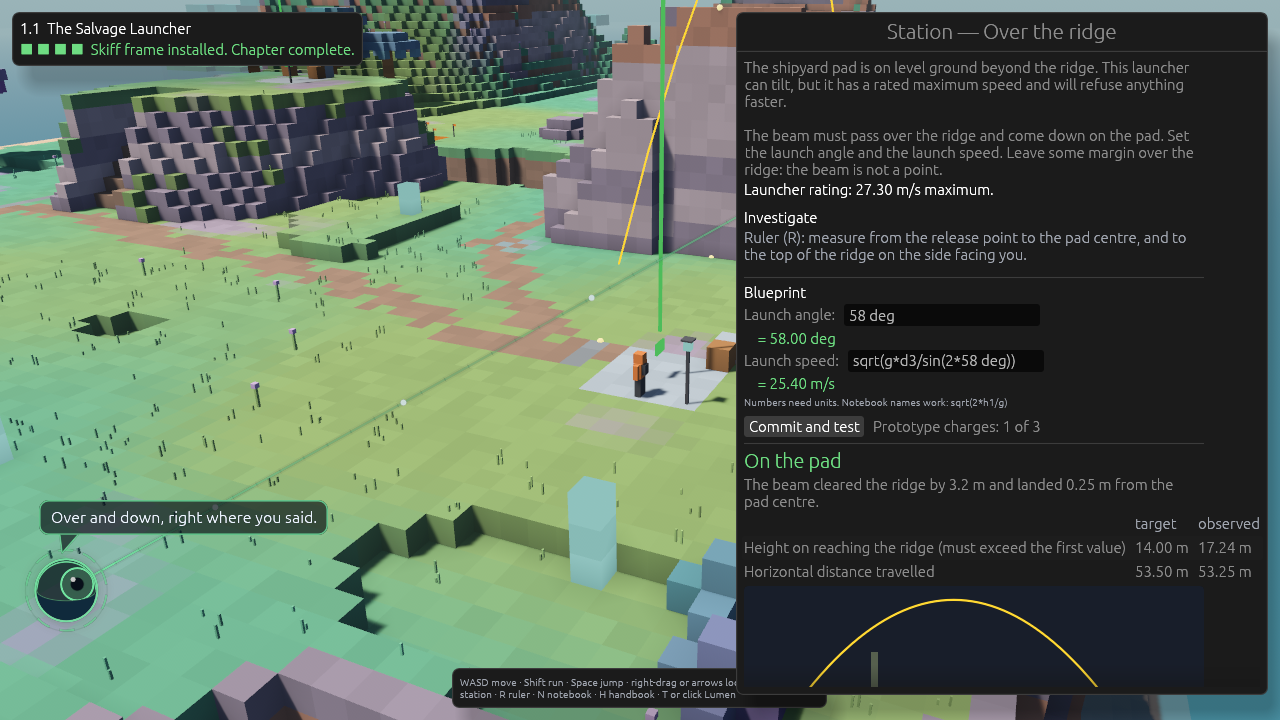
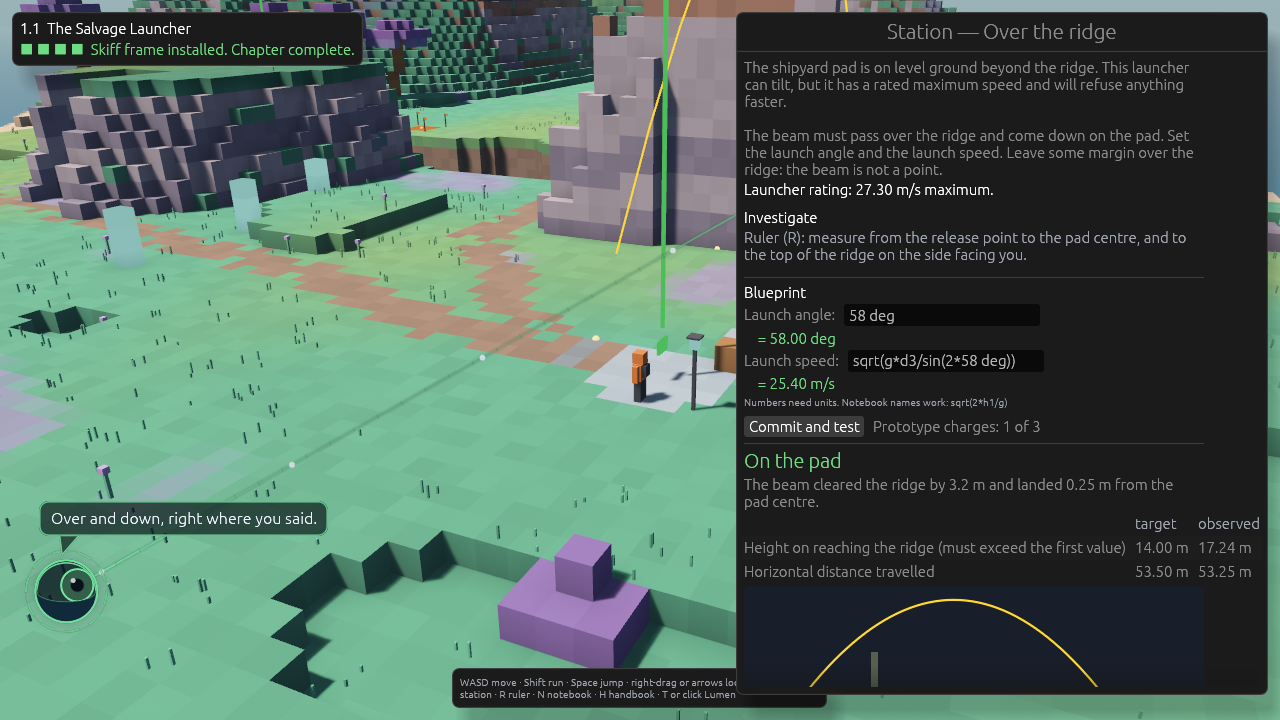
Give the coast room: a natural west shore and gentle beaches
The west coast ran straight along the world's edge, and beaches dropped the
11 m to the sea in one-block steps over a dozen blocks, a staircase.

- The layout now sits at an offset inside a larger world (232 x 196), so
  the sea reaches the edge well clear of the land.
- The land kept around puzzle sites has a noisy width, so the coast no
  longer traces the sites' outline.
- Beaches are 24 blocks wide on a gentler curve, with a little noise in
  their heights so the terraces wander like dunes.
- Deep water has a rock floor, matched by a sea bed plane beyond the world,
  so the world's edge no longer shows through the water.
- The tour's overview looks at the same place in the shifted layout.
  Screenshots refreshed; the island shot is now a wide aerial view.

Claude-Session: https://claude.ai/code/session_01LwuCMPYeU84dwfpj3vsWoN

diff --git a/game/src/island.rs b/game/src/island.rs
@@ -12,7 +12,12 @@ use bevy::prelude::*;
 use physics_core::materials::Material;
 use physics_core::puzzle::Ch1Layout;
 
-pub const WORLD_SIZE: IVec3 = IVec3::new(176, 72, 128);
+/// Where the layout's own coordinates start in the world. The margin around them leaves room for the
+/// coast to find its own shape, and for beaches wide enough to slope gently down to the water.
+pub const LAYOUT_ORIGIN: IVec3 = IVec3::new(OX, 0, OZ);
+const OX: i32 = 40;
+const OZ: i32 = 34;
+pub const WORLD_SIZE: IVec3 = IVec3::new(232, 72, 196);
 /// Height of the ground surface over most of the island.
 pub const GROUND: i32 = 20;
 pub const SEA_LEVEL: f32 = 8.6;
@@ -71,17 +76,19 @@ pub struct Sites {
 }
 
 /// Block the rail cart starts on, and the row the supply rail runs along (eastward).
-const RAIL_X: i32 = 28;
-const RAIL_ROW: i32 = 47;
-const TOWER: IVec3 = IVec3::new(36, GROUND, 30);
-const MAST: IVec3 = IVec3::new(28, GROUND, 22);
+const RAIL_X: i32 = OX + 28;
+const RAIL_ROW: i32 = OZ + 47;
+const TOWER: IVec3 = IVec3::new(OX + 36, GROUND, OZ + 30);
+const MAST: IVec3 = IVec3::new(OX + 28, GROUND, OZ + 22);
 /// Near (west) rim of the canyon, where the ledge launcher releases.
-const CANYON_X: i32 = 70;
-const CANYON_ROW: i32 = 56;
-const CANYON_Z: (i32, i32) = (28, 84);
+const CANYON_X: i32 = OX + 70;
+const CANYON_ROW: i32 = OZ + 56;
+const CANYON_Z: (i32, i32) = (OZ + 28, OZ + 84);
 /// Release point of the tilting launcher.
-const RIDGE_LAUNCH_X: i32 = 40;
-const RIDGE_ROW: i32 = 100;
+const RIDGE_LAUNCH_X: i32 = OX + 40;
+const RIDGE_ROW: i32 = OZ + 100;
+/// West edge of the outcrop's flat top; the ramp climbs to it.
+const LEDGE_X: i32 = CANYON_X - 14;
 
 /// An axis-aligned rectangle of columns, both corners inclusive.
 #[derive(Clone, Copy, Debug)]
@@ -93,6 +100,11 @@ struct Rect {
 impl Rect {
     const fn new(x0: i32, z0: i32, x1: i32, z1: i32) -> Self {
         Rect { min: IVec2::new(x0, z0), max: IVec2::new(x1, z1) }
+    }
+
+    /// A rectangle given in the layout's own coordinates.
+    const fn local(x0: i32, z0: i32, x1: i32, z1: i32) -> Self {
+        Rect::new(OX + x0, OZ + z0, OX + x1, OZ + z1)
     }
 
     /// Distance in blocks from a column to the rectangle (0 inside).
@@ -120,26 +132,26 @@ impl Plan {
         let yard_x = RIDGE_LAUNCH_X + layout.pad_centre.floor() as i32 + 7;
         let zones = vec![
             // Landing site: wreck, spawn, drop tower, survey mast.
-            Rect::new(10, 16, 46, 50),
+            Rect::local(10, 16, 46, 50),
             // Supply rail.
-            Rect::new(22, 40, 58, 52),
+            Rect::local(22, 40, 58, 52),
             // Ramp foot, outcrop and the launch line out past the canyon.
-            Rect::new(34, 50, 142, 62),
+            Rect::local(34, 50, 142, 62),
             // The canyon, rim to rim.
             Rect::new(CANYON_X - 6, CANYON_Z.0 - 4, far_rim + 4, CANYON_Z.1 + 4),
             // Tilting launcher, ridge, pad and the line beyond.
-            Rect::new(32, RIDGE_ROW - 6, 140, RIDGE_ROW + 6),
+            Rect::new(OX + 32, RIDGE_ROW - 6, OX + 140, RIDGE_ROW + 6),
             Rect::new(ridge_x - 4, RIDGE_ROW - 12, ridge_x + 5, RIDGE_ROW + 12),
             // Shipyard.
             Rect::new(yard_x - 3, RIDGE_ROW - 10, yard_x + 23, RIDGE_ROW + 10),
         ];
         let corridors = vec![
-            Rect::new(18, RAIL_ROW + 1, 62, 100),
-            Rect::new(20, MAST.z + 1, 46, 60),
-            Rect::new(60, CANYON_ROW + 3, 148, 120),
-            Rect::new(30, RIDGE_ROW + 3, 142, 127),
+            Rect::local(18, 48, 62, 100),
+            Rect::local(20, 23, 46, 60),
+            Rect::local(60, 59, 148, 140),
+            Rect::new(OX + 30, RIDGE_ROW + 3, OX + 142, WORLD_SIZE.z),
         ];
-        Plan { zones, corridors, rail_view: Rect::new(18, RAIL_ROW + 1, 62, 100) }
+        Plan { zones, corridors, rail_view: Rect::local(18, 48, 62, 100) }
     }
 
     fn zone_distance(&self, x: i32, z: i32) -> f32 {
@@ -159,14 +171,16 @@ impl Plan {
 
     /// Roughly how many blocks inland a column is; negative out at sea.
     fn inland(&self, x: i32, z: i32) -> f32 {
-        let (xf, zf) = (x as f32, z as f32);
-        let ellipse = (((xf - 88.0) / 84.0).powi(2) + ((zf - 64.0) / 60.0).powi(2)).sqrt();
+        let (xf, zf) = ((x - OX) as f32, (z - OZ) as f32);
+        let ellipse = (((xf - 88.0) / 112.0).powi(2) + ((zf - 64.0) / 88.0).powi(2)).sqrt();
         let wobble = (fbm(xf / 30.0, zf / 30.0, 1, 3) - 0.5) * 0.6;
-        let coast = (1.0 - ellipse - wobble) * 50.0;
-        // Puzzle sites always have land around them, and the sea always reaches the world's edge.
+        let coast = (1.0 - ellipse - wobble) * 60.0;
+        // Puzzle sites always have a beach's width of land around them, more in places, so the coast
+        // never simply traces their outline. The sea always reaches the world's edge.
+        let margin = BEACH + 2.0 + 12.0 * fbm(xf / 16.0, zf / 16.0, 7, 2);
         let edge = x.min(WORLD_SIZE.x - 1 - x).min(z).min(WORLD_SIZE.z - 1 - z) as f32;
         let fray = 6.0 * fbm(xf / 11.0, zf / 11.0, 6, 2);
-        coast.max(16.0 - self.zone_distance(x, z)).min(edge - 3.0 - fray)
+        coast.max(margin - self.zone_distance(x, z)).min(edge - 3.0 - fray)
     }
 }
 
@@ -283,7 +297,7 @@ pub fn build(layout: &Ch1Layout) -> (VoxelWorld, Sites) {
     let shipyard = Vec3::new(yard_x as f32 + 10.0, ground, RIDGE_ROW as f32 + 0.5);
 
     // --- The wreck: a broken hull section near the start, in a scorched patch -----------------
-    let wreck = IVec3::new(16, GROUND, 40);
+    let wreck = IVec3::new(OX + 16, GROUND, OZ + 40);
     for dz in -5..=10 {
         for dx in -6..=14 {
             let p = wreck + IVec3::new(dx, -1, dz);
@@ -311,10 +325,10 @@ pub fn build(layout: &Ch1Layout) -> (VoxelWorld, Sites) {
     pins.push(rail_marker_pin);
 
     // Worn paths from the wreck past each station in turn, then on to the shipyard.
-    let ramp_foot = 56 - layout.ledge_h as i32 - 2;
-    path(&mut world, &[(24, 46), (30, 42), (34, 38), (station1.x, station1.z + 1)]);
-    path(&mut world, &[(station1.x + 1, station1.z + 1), (42, 43), (46, 50), (ramp_foot, CANYON_ROW)]);
-    path(&mut world, &[(ramp_foot, CANYON_ROW + 1), (ramp_foot - 2, 66), (42, 82), (38, 94), (station3.x + 1, station3.z - 1)]);
+    let ramp_foot = LEDGE_X - layout.ledge_h as i32 - 2;
+    path(&mut world, &[(OX + 24, OZ + 46), (OX + 30, OZ + 42), (OX + 34, OZ + 38), (station1.x, station1.z + 1)]);
+    path(&mut world, &[(station1.x + 1, station1.z + 1), (OX + 42, OZ + 43), (OX + 46, OZ + 50), (ramp_foot, CANYON_ROW)]);
+    path(&mut world, &[(ramp_foot, CANYON_ROW + 1), (ramp_foot - 2, OZ + 66), (OX + 42, OZ + 82), (OX + 38, OZ + 94), (station3.x + 1, station3.z - 1)]);
     path(&mut world, &[(station3.x + 2, RIDGE_ROW - 3), (ridge_x - 3, RIDGE_ROW - 14), (ridge_x + 6, RIDGE_ROW - 14), (pad_mid - 3, RIDGE_ROW - 4), (yard_x, RIDGE_ROW)]);
 
     // Station consoles, each in a small camp of salvage: a plated apron, a quartz lantern and crates.
@@ -329,7 +343,7 @@ pub fn build(layout: &Ch1Layout) -> (VoxelWorld, Sites) {
     flora(&mut world, &plan);
 
     let sites = Sites {
-        spawn: Vec3::new(30.5, ground, 40.5),
+        spawn: Vec3::new(OX as f32 + 30.5, ground, OZ as f32 + 40.5),
         rail_start,
         tower_release,
         tower_plate,
@@ -363,13 +377,16 @@ fn put(world: &mut VoxelWorld, p: IVec3, material: Material) {
 }
 
 /// Coast, beaches, cliffs, hills and the north-eastern range, in layers of turf, soil and rock.
+/// Width of a beach, from the turf down to the water.
+const BEACH: f32 = 24.0;
+
 fn terrain(world: &mut VoxelWorld, plan: &Plan) {
     let (sx, sz) = (WORLD_SIZE.x, WORLD_SIZE.z);
     let mut heights = vec![0; (sx * sz) as usize];
     let mut beachy = vec![false; (sx * sz) as usize];
     for z in 0..sz {
         for x in 0..sx {
-            let (xf, zf) = (x as f32, z as f32);
+            let (xf, zf) = ((x - OX) as f32, (z - OZ) as f32);
             let flat = plan.flatness(x, z);
             let low = plan.lowland(x, z);
             let rolling = (fbm(xf / 26.0, zf / 26.0, 2, 3) - 0.5) * 7.0 * (1.0 - 0.55 * low);
@@ -382,14 +399,17 @@ fn terrain(world: &mut VoxelWorld, plan: &Plan) {
             let mountain = massif * (8.0 + 18.0 * crest) * (1.0 - low);
             let land = GROUND as f32 + flat * (rolling + mountain);
 
-            // Where the coast is cliff the land runs to the water's edge; elsewhere it slopes to a beach.
+            // Where the coast is cliff the land runs to the water's edge; elsewhere it slopes to a beach,
+            // wide enough that it comes down in broad, low terraces rather than a staircase.
             let inland = plan.inland(x, z);
             let cliff = smoothstep(0.42, 0.62, fbm(xf / 40.0, zf / 40.0, 5, 2));
-            let slope = 12.0 - 10.5 * cliff;
+            let slope = BEACH - (BEACH - 1.5) * cliff;
             let top = if inland >= slope {
                 land
             } else if inland > 0.0 {
-                9.0 + (land - 9.0) * (inland / slope).powf(1.4)
+                // A little noise, so the terraces' edges wander instead of running in parallel lines.
+                let ripple = (fbm(xf / 7.0, zf / 7.0, 8, 2) - 0.5) * 2.8;
+                (9.0 + (land - 9.0) * (inland / slope).powf(1.2) + ripple).clamp(8.6, land)
             } else {
                 (8.0 + inland * 0.7).max(0.0)
             };
@@ -408,7 +428,10 @@ fn terrain(world: &mut VoxelWorld, plan: &Plan) {
             let top = height(x, z);
             let steep = [(1, 0), (-1, 0), (0, 1), (0, -1)].iter().map(|(dx, dz)| (top - height(x + dx, z + dz)).abs()).max().unwrap_or(0);
             let high = top > GROUND + 14 && hash01(IVec3::new(x, 1, z)) < 0.6;
-            let surface = if beachy[(z * sx + x) as usize] {
+            // Deep water has a floor of bare rock; the sea bed beyond the world's edge matches it.
+            let surface = if top <= 4 {
+                Material::Rock
+            } else if beachy[(z * sx + x) as usize] {
                 Material::Sand
             } else if steep >= 3 || high {
                 Material::Rock
@@ -439,7 +462,7 @@ fn sea_stacks(world: &mut VoxelWorld, plan: &Plan) {
             let inland = plan.inland(x, z);
             // Not off the south coast: that is where the test cameras stand.
             let edge = x.min(WORLD_SIZE.x - 1 - x).min(z).min(WORLD_SIZE.z - 1 - z);
-            if !(-13.0..-5.0).contains(&inland) || z > 90 || edge < 6 || hash01(IVec3::new(gx, 203, gz)) < 0.35 {
+            if !(-13.0..-5.0).contains(&inland) || z - OZ > 90 || edge < 6 || hash01(IVec3::new(gx, 203, gz)) < 0.35 {
                 continue;
             }
             let radius = 1.3 + 1.4 * hash01(IVec3::new(x, 204, z));
@@ -468,23 +491,23 @@ fn sea_stacks(world: &mut VoxelWorld, plan: &Plan) {
 
 /// The outcrop that carries the ledge launcher: a steep-sided mesa with a gully ramp up its west side.
 fn outcrop(world: &mut VoxelWorld, ledge_h: i32) {
-    let (cx, cz) = (64.0, CANYON_ROW as f32);
+    let (cx, cz) = ((CANYON_X - 6) as f32, CANYON_ROW as f32);
     // The supply rail runs just north of it, so the mesa is shallower on that side.
-    for z in RAIL_ROW + 2..=74 {
-        for x in 42..CANYON_X {
+    for z in RAIL_ROW + 2..=OZ + 74 {
+        for x in OX + 42..CANYON_X {
             let (xf, zf) = (x as f32, z as f32);
             let reach = if zf < cz { 8.5 } else { 15.0 };
             let ellipse = (((xf - cx) / 19.0).powi(2) + ((zf - cz) / reach).powi(2)).sqrt();
             let rim = ellipse + (fbm(xf / 7.0, zf / 7.0, 61, 2) - 0.5) * 0.35;
             let mut height = (((1.0 - rim) * 13.0 * 3.0).floor() as i32).clamp(0, ledge_h);
             // The flat top that holds the launcher and the station.
-            if (56..CANYON_X).contains(&x) && (CANYON_ROW - 4..=CANYON_ROW + 6).contains(&z) {
+            if (LEDGE_X..CANYON_X).contains(&x) && (CANYON_ROW - 4..=CANYON_ROW + 6).contains(&z) {
                 height = ledge_h;
             }
             // The ramp: one block up per block east, five wide, cut into the mesa's west side.
-            let ramp = (CANYON_ROW - 2..=CANYON_ROW + 2).contains(&z) && x < 56;
+            let ramp = (CANYON_ROW - 2..=CANYON_ROW + 2).contains(&z) && x < LEDGE_X;
             if ramp {
-                height = (ledge_h - (56 - x)).max(0);
+                height = (ledge_h - (LEDGE_X - x)).max(0);
             }
             if height == 0 {
                 continue;

diff --git a/game/src/scenery.rs b/game/src/scenery.rs
@@ -52,10 +52,10 @@ fn spawn(
 
     // Islands on the horizon, larger than life so the haze softens them.
     for (i, (centre, scale)) in [
-        (Vec3::new(-190.0, 0.0, 10.0), 3.0),
-        (Vec3::new(330.0, 0.0, -150.0), 4.0),
-        (Vec3::new(120.0, 0.0, -300.0), 3.5),
-        (Vec3::new(-120.0, 0.0, 330.0), 4.5),
+        (Vec3::new(-180.0, 0.0, 40.0), 3.0),
+        (Vec3::new(380.0, 0.0, -140.0), 4.0),
+        (Vec3::new(150.0, 0.0, -280.0), 3.5),
+        (Vec3::new(-110.0, 0.0, 380.0), 4.5),
     ]
     .into_iter()
     .enumerate()
@@ -76,7 +76,7 @@ fn spawn(
     commands.spawn((
         Mesh3d(meshes.add(floating.mesh(0, floating.size.x, 0, floating.size.z, false))),
         MeshMaterial3d(blocks.clone()),
-        Transform::from_xyz(260.0, 70.0, 150.0).with_scale(Vec3::splat(2.5)),
+        Transform::from_xyz(330.0, 70.0, 220.0).with_scale(Vec3::splat(2.5)),
         NotShadowCaster,
     ));
 
@@ -90,6 +90,14 @@ fn spawn(
             ..default()
         })),
         Transform::from_xyz(size.x / 2.0, SEA_LEVEL, size.z / 2.0),
+        NotShadowCaster,
+    ));
+
+    // The sea bed out past the island, level with the deepest floor the world holds.
+    commands.spawn((
+        Mesh3d(meshes.add(Plane3d::default().mesh().size(1800.0, 1800.0))),
+        MeshMaterial3d(materials.add(StandardMaterial { base_color: Color::srgb(0.40, 0.38, 0.48), perceptual_roughness: 1.0, ..default() })),
+        Transform::from_xyz(size.x / 2.0, 0.98, size.z / 2.0),
         NotShadowCaster,
     ));
 

diff --git a/game/src/devscript.rs b/game/src/devscript.rs
@@ -91,7 +91,7 @@ fn tour(game: &Game, sites: &Sites) -> Vec<Step> {
         Look { yaw: -0.8, pitch: 0.15, distance: 3.0 },
         Wait(1.2),
         Shot("01b_lumen_points_off_screen"),
-        Watch(Some(Vec3::new(80.0, 20.0, 66.0))),
+        Watch(Some(Vec3::new(80.0, 20.0, 66.0) + crate::island::LAYOUT_ORIGIN.as_vec3())),
         Look { yaw: -0.5, pitch: 0.75, distance: 80.0 },
         Wait(1.5),
         Shot("02_island"),
